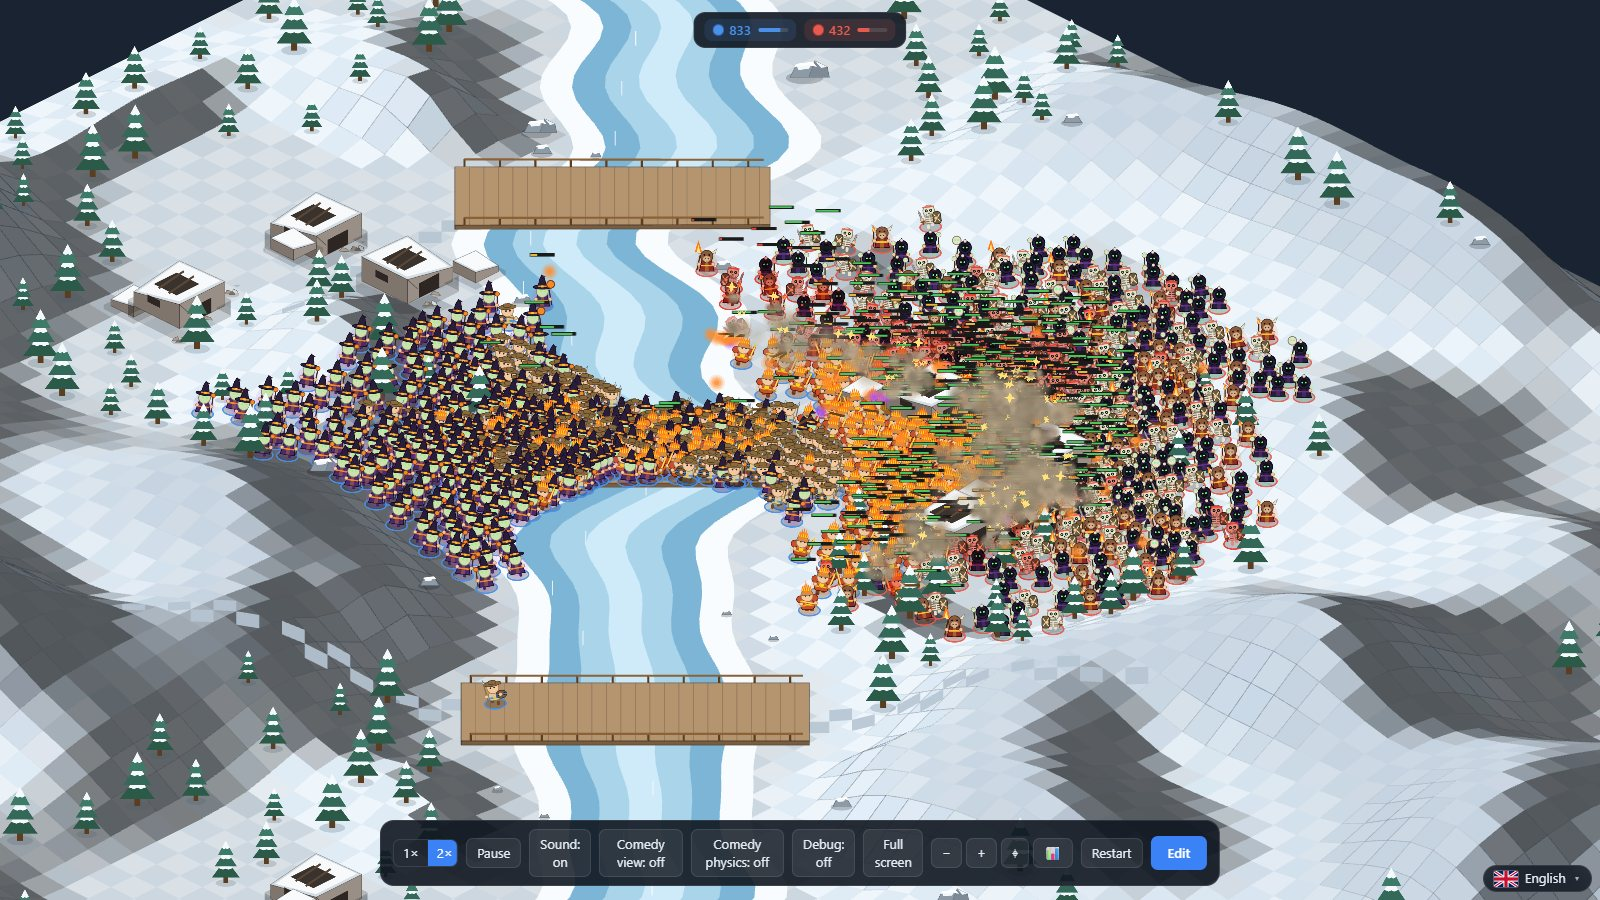
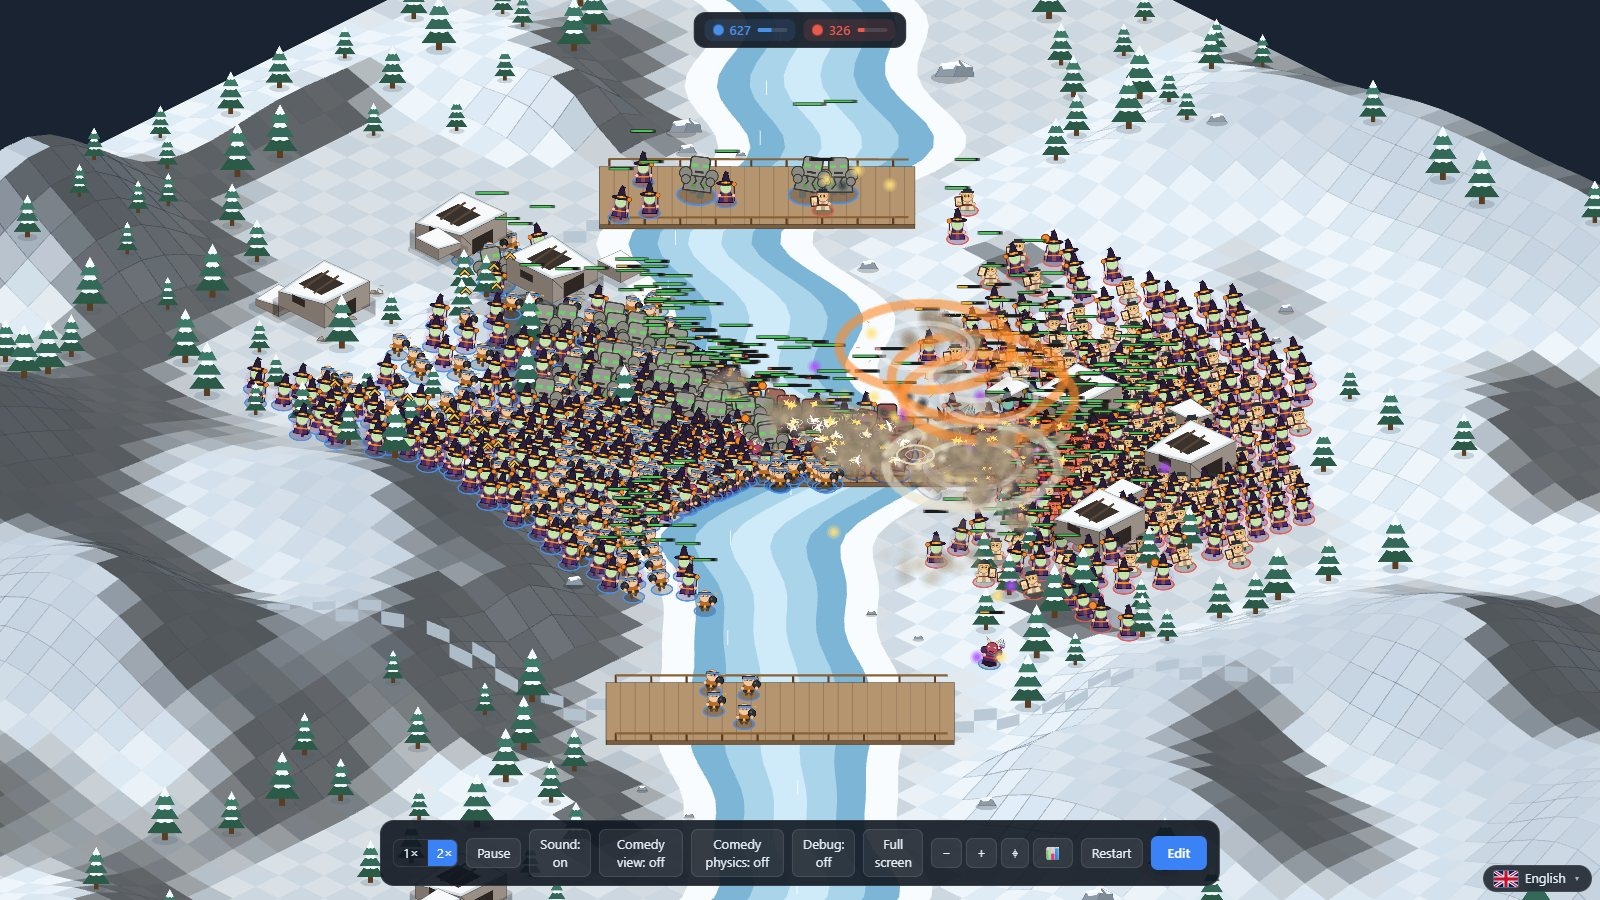
High-ground chevrons above units standing on elevated terrain; camera shake and zoom punch disabled; v1.7.1

diff --git a/src/render/massRenderer.ts b/src/render/massRenderer.ts
@@ -43,6 +43,15 @@ export class MassRenderer {
   private readonly bars = new ParticleContainer({
     dynamicProperties: { vertex: true, position: true, rotation: false, uvs: false, color: true },
   });
+  /** High-ground chevrons above units that stand on elevated terrain. */
+  private readonly marks = new ParticleContainer({
+    dynamicProperties: { vertex: false, position: true, rotation: false, uvs: false, color: false },
+  });
+  private readonly chevronTex: Texture;
+  private markParticles: Particle[] = [];
+  private markSx = new Float32Array(0);
+  private markSy = new Float32Array(0);
+  private markLevel = new Uint8Array(0);
   private readonly unitTex: Texture[]; // [(kind*MAX_TEAMS + team)*2 + pose]
   private readonly unitAnchor: Array<{ ax: number; ay: number }>;
   private readonly arrowTex: Texture;
@@ -83,9 +92,17 @@ export class MassRenderer {
     this.arrowTex = atlas.arrowTex;
     this.orbTex = atlas.fx.puff.texture;
     this.pixelTex = atlas.pixelTex;
+    this.chevronTex = this.makeChevron();
     this.buildDecor(atlas);
-    this.layer.addChild(this.units, this.arrows, this.bars);
+    this.layer.addChild(this.units, this.arrows, this.bars, this.marks);
     this.rebuild();
+  }
+
+  /** Small gold chevron (^) drawn above units standing on high ground. */
+  private makeChevron(): Texture {
+    const g = new Graphics();
+    g.poly([0, 0, 8, 8, 5.5, 10.5, 0, 5, -5.5, 10.5, -8, 8]).fill(0xf2c14e).stroke({ width: 1.2, color: 0x2a1f05, alpha: 0.85 });
+    return this.app.renderer.generateTexture({ target: g, resolution: 2, frame: new Rectangle(-10, -2, 20, 16) });
   }
 
   /** Ground: two-tone diamond-pattern TilingSprite, masked to the map shape. */
@@ -144,6 +161,9 @@ export class MassRenderer {
     this.lastKey = new Int32Array(u.count).fill(-1);
     this.fsx = new Float32Array(u.count);
     this.fsy = new Float32Array(u.count);
+    this.markSx = new Float32Array(u.count);
+    this.markSy = new Float32Array(u.count);
+    this.markLevel = new Uint8Array(u.count);
     for (let i = 0; i < u.count; i++) this.phase[i] = (i * 2.399963) % 6.283185;
     this.lastTime = -1;
     this.keys = new Int32Array(u.count + this.decorParticles.length);
@@ -152,6 +172,7 @@ export class MassRenderer {
     this.units.particleChildren = [];
     this.arrows.particleChildren = [];
     this.bars.particleChildren = [];
+    this.marks.particleChildren = [];
   }
 
   sync(time: number, alpha: number, view: MassViewport, opt: MassOptions): void {
@@ -171,6 +192,7 @@ export class MassRenderer {
     const ease = 1 - Math.exp(-dt * 9);
 
     // 1) Collect visible units, write positions.
+    this.markLevel.fill(0);
     for (let i = 0; i < u.count; i++) {
       const alive = u.alive[i] === 1;
       if (!alive && (comedy.visual || u.deathT[i] > DEATH_FADE)) continue;
@@ -191,6 +213,13 @@ export class MassRenderer {
       this.fsx[i] = sx;
       this.fsy[i] = sy;
       if (opt.cull && (sx < view.left || sx > view.right || sy < view.top || sy > view.bottom)) continue;
+      if (alive && relief) {
+        // High ground: 2+ steps above sea level (see data/combat.ts for what the height difference gives).
+        const steps = terr!.heightAt(wx, wy);
+        this.markLevel[i] = steps >= 6 ? 3 : steps >= 4 ? 2 : steps >= 2 ? 1 : 0;
+        this.markSx[i] = sx;
+        this.markSy[i] = sy;
+      }
 
       const p = this.particles[i];
       const kind = u.kind[i];
@@ -276,6 +305,33 @@ export class MassRenderer {
 
     this.syncArrows(view, alpha * SIM_DT);
     this.syncBars(alpha, view, opt.bars);
+    this.syncMarks(zoom);
+  }
+
+  private syncMarks(zoom: number): void {
+    const out = this.marks.particleChildren;
+    if (!this.terrain || !this.terrain.hasRelief || zoom < 0.3) {
+      out.length = 0;
+      return;
+    }
+    const u = this.sim.units;
+    let n = 0;
+    for (let i = 0; i < u.count; i++) {
+      const lvl = this.markLevel[i];
+      if (lvl === 0) continue;
+      const k = STATS[u.kind[i]].scale;
+      for (let c = 0; c < lvl; c++) {
+        let part = this.markParticles[n];
+        if (!part) {
+          part = new Particle({ texture: this.chevronTex, anchorX: 0.5, anchorY: 0.5 });
+          this.markParticles[n] = part;
+        }
+        part.x = this.markSx[i];
+        part.y = this.markSy[i] - 84 * k - c * 5;
+        out[n++] = part;
+      }
+    }
+    out.length = n;
   }
 
   private syncArrows(view: MassViewport, advance: number): void {

diff --git a/src/render/unitView.ts b/src/render/unitView.ts
@@ -80,6 +80,9 @@ export class UnitView {
   private readonly legL = new Graphics();
   private readonly legR = new Graphics();
   private readonly bar = new Graphics();
+  /** Gold chevrons above the head while the unit stands on high ground (0-3). */
+  private readonly mark = new Graphics();
+  private markLevel = 0;
   private readonly shadow: Graphics;
   private weapon: Container | null = null;
   private shield: Container | null = null;
@@ -131,6 +134,20 @@ export class UnitView {
     this.bar.y = -72 * this.kScale;
     this.bar.visible = false;
     this.root.addChild(this.bar);
+    this.mark.y = -84 * this.kScale;
+    this.root.addChild(this.mark);
+  }
+
+  /** High-ground marker: `level` chevrons (0 hides it); only redrawn when the level changes. */
+  setHighGround(level: number): void {
+    if (level === this.markLevel) return;
+    this.markLevel = level;
+    this.mark.clear();
+    for (let c = 0; c < level; c++) {
+      const y = -c * 5;
+      this.mark.poly([0, y, 8, y + 8, 5.5, y + 10.5, 0, y + 5, -5.5, y + 10.5, -8, y + 8]).fill(0xf2c14e).stroke({ width: 1.2, color: 0x2a1f05, alpha: 0.85 });
+    }
+    this.mark.visible = level > 0;
   }
 
   /** Roster unit: draws from the recipe table (looks.ts). */

diff --git a/src/app/battle.ts b/src/app/battle.ts
@@ -13,6 +13,7 @@ import type { SimBackend } from '../sim/backend';
 import { terrainFor, type BattleConfig } from '../sim/battle';
 import { SIM_DT } from '../sim/constants';
 import { InlineSim } from '../sim/inlineSim';
+import { LEVEL_PX } from '../sim/terrain';
 import { STATS } from '../sim/units';
 import { WorkerSim } from '../sim/workerSim';
 import type { StatsPanel } from '../ui/stats';
@@ -585,7 +586,11 @@ export class BattleScene {
       const wx = u.px[i] + (u.x[i] - u.px[i]) * alpha;
       const wy = u.py[i] + (u.y[i] - u.py[i]) * alpha;
       v.root.visible = true;
-      v.root.position.set(isoX(wx, wy), isoY(wx, wy, this.elev(wx, wy) + (u.lift ? u.lift[i] * 38 : 0)));
+      const ground = this.elev(wx, wy);
+      v.root.position.set(isoX(wx, wy), isoY(wx, wy, ground + (u.lift ? u.lift[i] * 38 : 0)));
+      // High ground (2+ steps up): gold chevrons, one more per two extra steps.
+      const steps = ground / LEVEL_PX;
+      v.setHighGround(alive ? (steps >= 6 ? 3 : steps >= 4 ? 2 : steps >= 2 ? 1 : 0) : 0);
       v.root.zIndex = wx + wy;
       const swingTotal = u.swing[i] > 0 ? STATS[u.kind[i]].swing : 0;
       v.update(

diff --git a/src/camera.ts b/src/camera.ts
@@ -138,13 +138,13 @@ export class Camera {
     this.zoom = Math.min(MAX_ZOOM, Math.max(MIN_ZOOM, this.zoom * f));
   }
 
-  punch(amount: number): void {
-    this.punchAmp = Math.min(0.08, Math.max(this.punchAmp, amount));
+  punch(_amount: number): void {
+    // The zoom jolt that came with impacts is switched off together with the shake.
   }
 
-  /** Adds shake (the largest value is kept; range 0-14 px). */
-  shake(amount: number): void {
-    this.shakeAmp = Math.min(14, Math.max(this.shakeAmp, amount));
+  /** Camera shake: disabled, kept as a no-op so effect code does not need to change. */
+  shake(_amount: number): void {
+    // Camera shake is switched off (impacts keep their particles, sounds and flashes).
   }
 
   /** Updates the camera bounds when the map size changes. */

diff --git a/README.md b/README.md
@@ -13,14 +13,14 @@ support for phones and tablets, 49 units, random maps and a bilingual UI (Englis
 
 <!-- screenshots:start (generated by `npm run screenshots`) -->
 <p align="center">
-  <img src="docs/screenshots/battle.jpg" alt="v1.7.0 — Crowded battle" />
+  <img src="docs/screenshots/battle.jpg" alt="v1.7.1 — Crowded battle" />
 </p>
 
 <table>
-  <tr><td align="center"><img src="docs/screenshots/comedy.jpg" alt="v1.7.0 — Comedy physics" width="460" /><br /><sub>Comedy physics</sub></td><td align="center"><img src="docs/screenshots/maps.jpg" alt="v1.7.0 — Map gallery" width="460" /><br /><sub>Map gallery</sub></td></tr>
-  <tr><td align="center"><img src="docs/screenshots/units.jpg" alt="v1.7.0 — Unit gallery with attack previews" width="460" /><br /><sub>Unit gallery with attack previews</sub></td><td align="center"><img src="docs/screenshots/studio.jpg" alt="v1.7.0 — Army studio" width="460" /><br /><sub>Army studio</sub></td></tr>
-  <tr><td align="center"><img src="docs/screenshots/lobby.jpg" alt="v1.7.0 — Online lobby" width="460" /><br /><sub>Online lobby</sub></td><td align="center"><img src="docs/screenshots/placement.jpg" alt="v1.7.0 — Online placement" width="460" /><br /><sub>Online placement</sub></td></tr>
-  <tr><td colspan="2" align="center"><img src="docs/screenshots/mobile-studio.jpg" alt="v1.7.0 — Mobile bottom sheet" width="200" /> <img src="docs/screenshots/mobile-battle.jpg" alt="v1.7.0 — Mobile battle HUD" width="200" /><br /><sub>Mobile: bottom sheet and battle HUD</sub></td></tr>
+  <tr><td align="center"><img src="docs/screenshots/comedy.jpg" alt="v1.7.1 — Comedy physics" width="460" /><br /><sub>Comedy physics</sub></td><td align="center"><img src="docs/screenshots/maps.jpg" alt="v1.7.1 — Map gallery" width="460" /><br /><sub>Map gallery</sub></td></tr>
+  <tr><td align="center"><img src="docs/screenshots/units.jpg" alt="v1.7.1 — Unit gallery with attack previews" width="460" /><br /><sub>Unit gallery with attack previews</sub></td><td align="center"><img src="docs/screenshots/studio.jpg" alt="v1.7.1 — Army studio" width="460" /><br /><sub>Army studio</sub></td></tr>
+  <tr><td align="center"><img src="docs/screenshots/lobby.jpg" alt="v1.7.1 — Online lobby" width="460" /><br /><sub>Online lobby</sub></td><td align="center"><img src="docs/screenshots/placement.jpg" alt="v1.7.1 — Online placement" width="460" /><br /><sub>Online placement</sub></td></tr>
+  <tr><td colspan="2" align="center"><img src="docs/screenshots/mobile-studio.jpg" alt="v1.7.1 — Mobile bottom sheet" width="200" /> <img src="docs/screenshots/mobile-battle.jpg" alt="v1.7.1 — Mobile battle HUD" width="200" /><br /><sub>Mobile: bottom sheet and battle HUD</sub></td></tr>
 </table>
 <!-- screenshots:end -->
 
